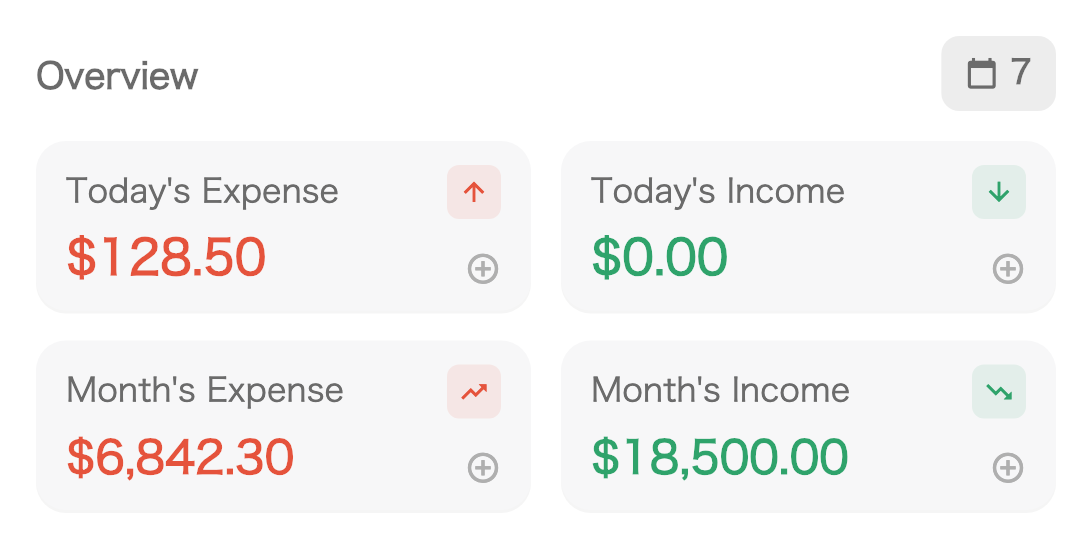
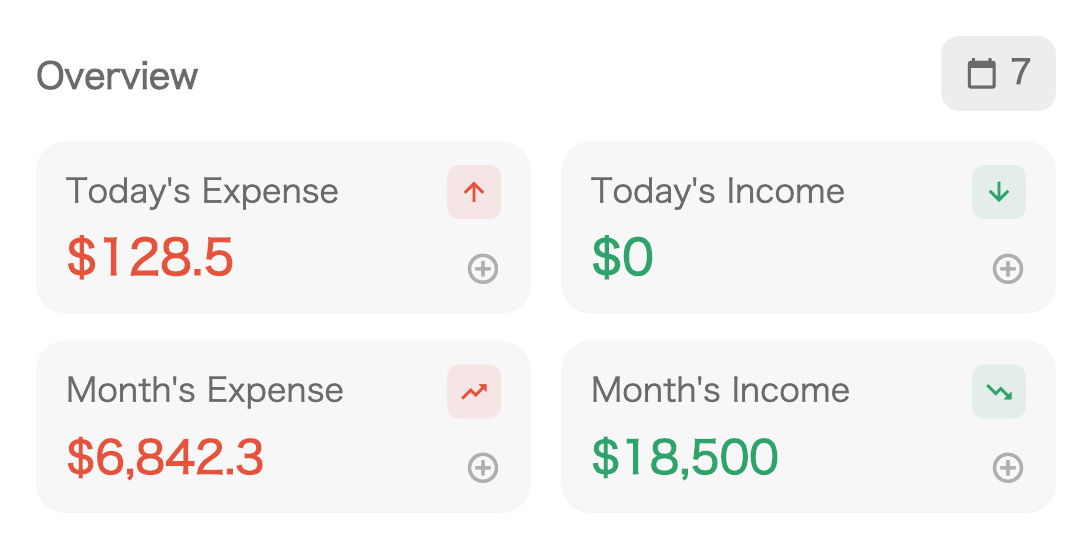
fix(widget): 收支速览币种符号跟随账本;修主币种恢复竞态;净资产大卡账户区撑满
- 收支速览金额此前硬编码 NumberFormat(symbol:'¥'),非 CNY 账本符号错误;
  改用账本自身币种 + getCurrencySymbol/formatMoneyCompact,与其余五款同一套
- 启动预热渲染先 await baseCurrencyInitProvider:此前与主币种 prefs 恢复
  并行,可能读到默认 CNY 把净资产首轮渲成 ¥,下次触发才纠正
- 净资产大卡账户区行槽等分(同最近交易做法),只有 2 个账户时底部不再留空白
- 画廊/预览生成器示例金额同步 formatMoneyCompact 去尾零风格

diff --git a/lib/widget/widget_manager.dart b/lib/widget/widget_manager.dart
@@ -3,10 +3,11 @@ import 'dart:ui' show PlatformDispatcher;
 
 import 'package:flutter/material.dart';
 import 'package:home_widget/home_widget.dart';
-import 'package:intl/intl.dart';
 import '../data/repositories/base_repository.dart';
 import '../l10n/app_localizations.dart';
 import '../services/system/logger_service.dart';
+import '../utils/currencies.dart' show getCurrencySymbol;
+import '../widgets/biz/format_money.dart' show formatMoneyCompact;
 import 'views/budget_view.dart';
 import 'views/dashboard_view.dart';
 import 'views/glance_view.dart';
@@ -126,12 +127,6 @@ class WidgetManager {
   static final WidgetManager _instance = WidgetManager._internal();
   factory WidgetManager() => _instance;
   WidgetManager._internal();
-
-  final NumberFormat _currencyFormat = NumberFormat.currency(
-    locale: 'zh_CN',
-    symbol: '¥',
-    decimalDigits: 2,
-  );
 
   /// 渲染管线入口:按 [WidgetSpec] 目录逐个处理,只渲染用户"已安装"(已放置
   /// 到桌面)的组件,再统一触发原生刷新。
@@ -513,10 +508,17 @@ class WidgetManager {
   }) async {
     final data = await batch.glance();
 
-    final todayExpense = _currencyFormat.format(data.todayExpenseTotal);
-    final todayIncome = _currencyFormat.format(data.todayIncomeTotal);
-    final monthExpense = _currencyFormat.format(data.monthExpenseTotal);
-    final monthIncome = _currencyFormat.format(data.monthIncomeTotal);
+    // 金额符号跟随账本自身币种(v30 多币种后账本各有币种),与 budget/
+    // recent/dashboard 同一套 getCurrencySymbol + formatMoneyCompact——
+    // 历史版这里硬编码 NumberFormat(symbol: '¥'),非 CNY 账本符号错误
+    // (2026-07 用户实机反馈),glance 是六款里最后一个接上币种链路的。
+    final currency = await batch.ledgerCurrency();
+    String fmt(double v) =>
+        '${getCurrencySymbol(currency)}${formatMoneyCompact(v)}';
+    final todayExpense = fmt(data.todayExpenseTotal);
+    final todayIncome = fmt(data.todayIncomeTotal);
+    final monthExpense = fmt(data.monthExpenseTotal);
+    final monthIncome = fmt(data.monthIncomeTotal);
 
     late final Widget view;
     late final Size renderSize;

diff --git a/lib/pages/settings/widget_management_page.dart b/lib/pages/settings/widget_management_page.dart
@@ -78,10 +78,10 @@ class WidgetManagementPage extends ConsumerWidget {
                   sizeLabel: l10n.widgetSizeMedium,
                   previewSize: const Size(364, 169),
                   preview: GlanceView.medium(
-                    todayExpense: '¥88.50',
-                    todayIncome: '¥0.00',
-                    monthExpense: '¥3,200.50',
-                    monthIncome: '¥8,000.00',
+                    todayExpense: '¥88.5',
+                    todayIncome: '¥0',
+                    monthExpense: '¥3,200.5',
+                    monthIncome: '¥8,000',
                     themeColor: primaryColor,
                     redForIncome: redForIncome,
                     dark: dark,
@@ -109,9 +109,9 @@ class WidgetManagementPage extends ConsumerWidget {
                   sizeLabel: l10n.widgetSizeSmall,
                   previewSize: const Size(155, 155),
                   preview: GlanceView.small(
-                    todayExpense: '¥88.50',
-                    monthExpense: '¥3,200.50',
-                    monthIncome: '¥8,000.00',
+                    todayExpense: '¥88.5',
+                    monthExpense: '¥3,200.5',
+                    monthIncome: '¥8,000',
                     themeColor: primaryColor,
                     redForIncome: redForIncome,
                     dark: dark,

diff --git a/lib/widget/views/net_worth_view.dart b/lib/widget/views/net_worth_view.dart
@@ -373,11 +373,20 @@ class NetWorthView extends StatelessWidget {
                       style: TextStyle(fontSize: 11, color: widgetTextTertiary(dark)),
                     ),
                   )
-                : WidgetOverflowClip(
-                    child: Column(
-                      crossAxisAlignment: CrossAxisAlignment.start,
-                      children: topAccounts.take(4).map(_accountRow).toList(),
-                    ),
+                // 每行一个 Expanded 等分槽(同 RecentView 的做法):账户只有
+                // 2 条时按自然高度顶对齐会在区块底部剩一截空白(2026-07 用户
+                // 点名),等分后行距摊开撑满;槽过矮(账户 4 条 + 真机字体
+                // 度量偏大)由 WidgetOverflowClip 裁切兜底。
+                : Column(
+                    children: [
+                      for (final item in topAccounts.take(4))
+                        Expanded(
+                          child: WidgetOverflowClip(
+                            alignment: Alignment.center,
+                            child: _accountRow(item),
+                          ),
+                        ),
+                    ],
                   ),
           ),
         ],

diff --git a/lib/main.dart b/lib/main.dart
@@ -10,6 +10,7 @@ import 'widgets/biz/login_2fa_challenge_view.dart';
 import 'widgets/ui/toast.dart';
 import 'theme.dart';
 import 'providers.dart';
+import 'providers/currency_providers.dart';
 import 'providers/font_scale_provider.dart';
 import 'providers/cloud_mode_providers.dart';
 import 'providers/ui_state_providers.dart';
@@ -171,6 +172,11 @@ class _WidgetUpdateObserver extends ProviderObserver {
 
   void _updateWidgetOnStart(ProviderContainer container) async {
     try {
+      // 先等主币种从 prefs 恢复完成再取值:本回调由 currentLedgerIdProvider
+      // 首次赋值触发,与 baseCurrencyInitProvider 的异步恢复是并行的两条链,
+      // 不等的话可能读到 StateProvider 的默认 'CNY',把净资产系列首轮渲成
+      // 错误的 ¥ 符号,要到下一次触发才纠正(2026-07 用户实机反馈)。
+      await container.read(baseCurrencyInitProvider.future);
       final repository = container.read(repositoryProvider);
       final ledgerId = container.read(currentLedgerIdProvider);
       final primaryColor = container.read(primaryColorProvider);

diff --git a/test/widget/widget_preview_generator_test.dart b/test/widget/widget_preview_generator_test.dart
@@ -376,9 +376,9 @@ Future<void> _generatePack(WidgetTester tester, _Pack p) async {
   await _capture(
     tester,
     GlanceView.small(
-      todayExpense: '${p.sym}128.50',
+      todayExpense: '${p.sym}128.5',
       // 155dp 小卡底部双栏放不下千位金额(会 ellipsis),预览样本刻意取短。
-      monthExpense: '${p.sym}842.30',
+      monthExpense: '${p.sym}842.3',
       monthIncome: '${p.sym}1,850',
       themeColor: _honey,
       redForIncome: false,
@@ -399,10 +399,10 @@ Future<void> _generatePack(WidgetTester tester, _Pack p) async {
   await _capture(
     tester,
     GlanceView.medium(
-      todayExpense: '${p.sym}128.50',
-      todayIncome: '${p.sym}0.00',
-      monthExpense: '${p.sym}6,842.30',
-      monthIncome: '${p.sym}18,500.00',
+      todayExpense: '${p.sym}128.5',
+      todayIncome: '${p.sym}0',
+      monthExpense: '${p.sym}6,842.3',
+      monthIncome: '${p.sym}18,500',
       themeColor: _honey,
       redForIncome: false,
       dark: false,
